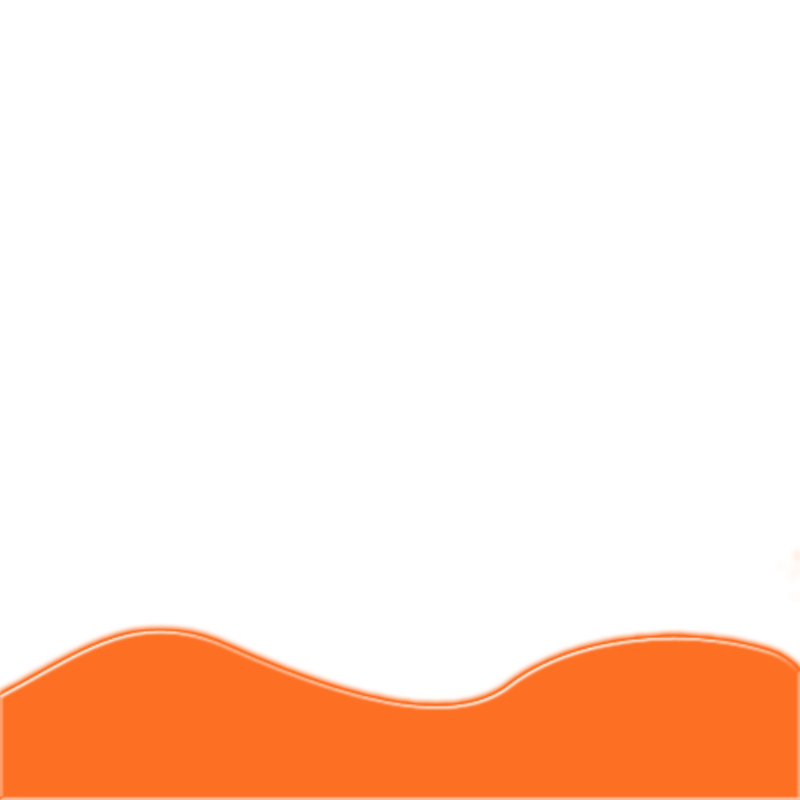
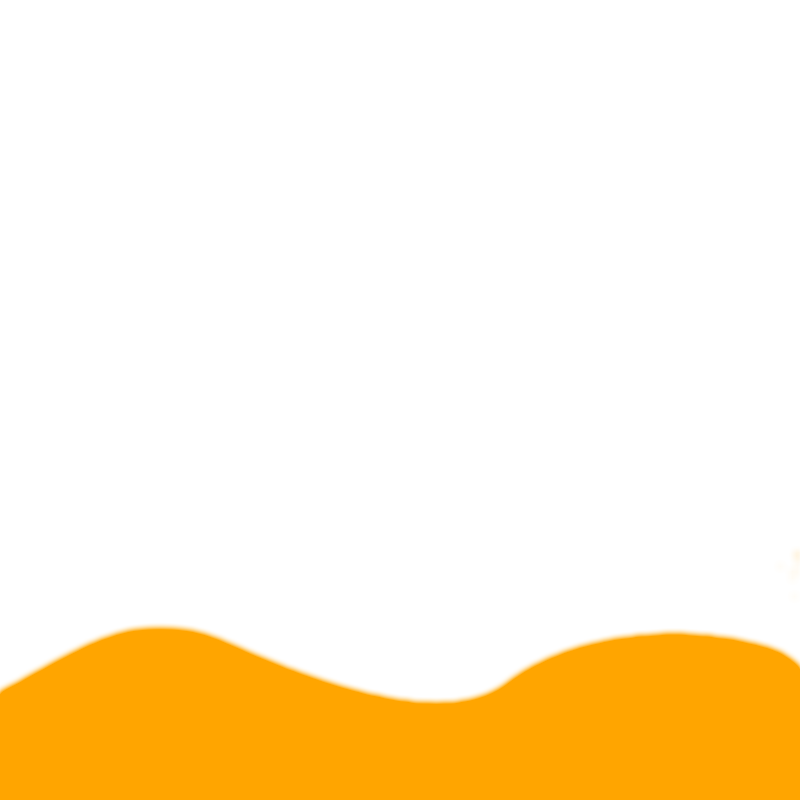
Updated several pages

Changed region(s): [[0.0, 0.7812, 1.0, 1.0]]

diff --git a/Front/src/pages/contact/contact.jsx b/Front/src/pages/contact/contact.jsx
@@ -4,7 +4,8 @@ import officeIcon from "../../assets/img/contact/521658.png";
 import timeIcon from "../../assets/img/contact/time-icon-968-thumb.png";
 import homePhoneIcon from "../../assets/img/contact/home-phone-icon-17.jpg";
 import mobilePhoneIcon from "../../assets/img/contact/mobile-phone-icon-2636-thumb.png";
-import mailIcon from "../../assets/img/contact/mail-227.png";
+import mailIcon from "../../assets/img/contact/546394.png";
+import instagram from "../../assets/img/contact/instagram-logo-icon-512x512-155lpz3w.png";
 
 const Contact = () => {
   const handleSubmite = (e) => {
@@ -50,6 +51,12 @@ const Contact = () => {
             <div>
               <img src={mailIcon} alt="mail" />
               <Link to="mailto:ppsyaivo-v@ukr.net">ppsyaivo-v@ukr.net</Link>
+            </div>
+            <div>
+              <img src={instagram} alt="mail" />
+              <Link to="https://www.instagram.com/syaivo_v/" target="_blank">
+                syaivo_v
+              </Link>
             </div>
           </div>
 

diff --git a/Front/src/pages/size/size-main/sizeStyles.scss b/Front/src/pages/size/size-main/sizeStyles.scss
@@ -75,7 +75,7 @@
         &:first-child {
           font-size: 25px;
           width: 70%;
-          color: gray;
+          color: rgb(82, 82, 82);
           font-weight: 600;
           font-family: TTHoves;
           line-height: 30px;
@@ -85,7 +85,7 @@
         &:last-child {
           font-size: 15px;
           width: 70%;
-          color: orange;
+          color: rgb(63, 63, 63);
           font-family: OpenSans;
           line-height: 20px;
           letter-spacing: 1px;

diff --git a/Front/src/pages/error/error.jsx b/Front/src/pages/error/error.jsx
@@ -1,7 +1,7 @@
 import { Link } from "react-router-dom";
 import "./errorStyle.scss";
 import warningIcon from "../../assets/img/error/symbole-d-avertissement-jaune.png";
-import crossIcon from "../../assets/img/error/1544641784.png";
+import crossIcon from "../../assets/img/error/1544641784.svg";
 import waveIcon from "../../assets/img/error/14-145581_orange-wave-orange-wave-png.png";
 
 const Error = () => {

diff --git a/Front/src/pages/size/size-main/size.jsx b/Front/src/pages/size/size-main/size.jsx
@@ -28,7 +28,7 @@ const Size = () => {
               підбір спецодягу.
             </div>
           </div>
-          <img src={wave} alt="wave" className="wave" />
+          <img src={wave} alt="wave" className="wave" style={{ scale: "-1" }} />
         </Link>
         <Link to="boots" className="boots-block">
           <div className="bs-inf-block">
